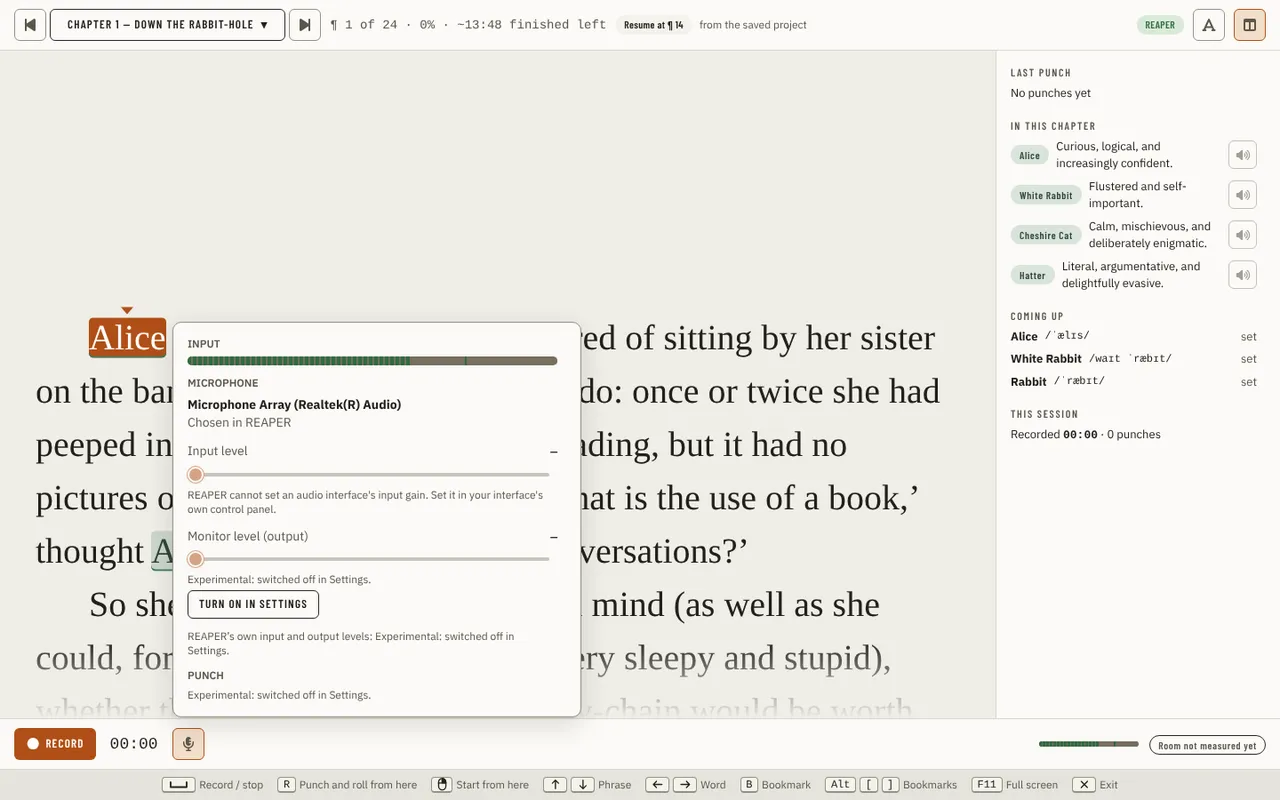
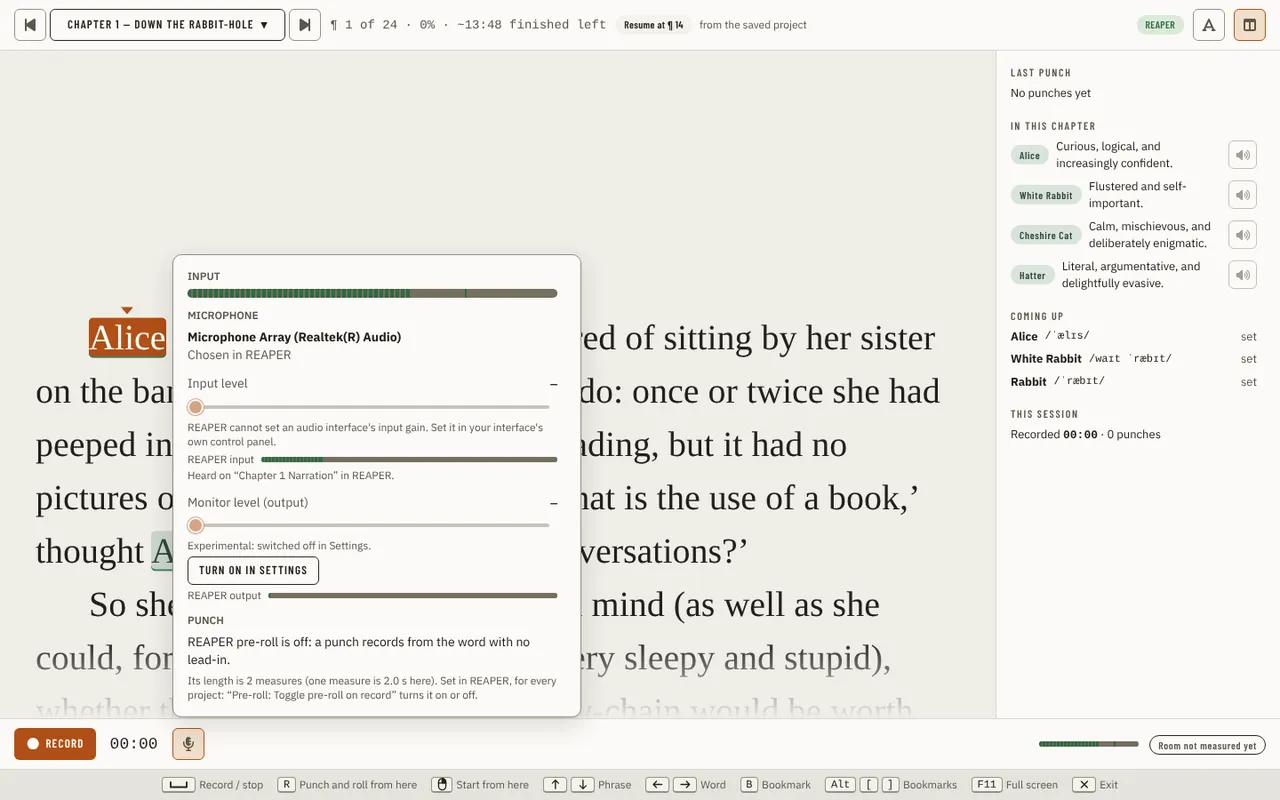
feat(booth): the Levels menu shows REAPER's meters and pre-roll by default (#2317)

Changed region(s): [[0.125, 0.3438, 0.4375, 0.875]]

diff --git a/src/studio/ui/src/components/booth/frame/dawMeters.test.tsx b/src/studio/ui/src/components/booth/frame/dawMeters.test.tsx
@@ -17,9 +17,12 @@ afterEach(() => {
 });
 
 // The DAW's own meters under the Levels menu's sliders (#2251 item 11): the record-armed track's input under Input level, the output under
-// Monitor level, read while the menu is open. And the way to turn on what Experimental keeps off.
+// Monitor level, read while the menu is open. The meters only read, so they are Supported and on by default (the owner's decision on #2251);
+// only the monitor slider, which writes, keeps a way to turn Experimental on.
 
 const ON: DawCapabilitySupport = { level: 'experimental', available: true };
+const METERS_ON: DawCapabilitySupport = { level: 'supported', available: true };
+const METERS_TURNED_OFF: DawCapabilitySupport = { level: 'supported', available: false, reason: 'turned_off', message: 'Turned off in Settings.' };
 const EXPERIMENTAL_OFF: DawCapabilitySupport = {
   level: 'experimental',
   available: false,
@@ -30,7 +33,7 @@ const ARMED: DawMeters = { ok: true, output: -18, input: -24, inputTrack: 'Chapt
 
 function menu(
   answers: () => DawMeters | Promise<DawMeters>,
-  { meters = ON, monitor = ON, reachable = true }: { meters?: DawCapabilitySupport; monitor?: DawCapabilitySupport; reachable?: boolean } = {},
+  { meters = METERS_ON, monitor = ON, reachable = true }: { meters?: DawCapabilitySupport; monitor?: DawCapabilitySupport; reachable?: boolean } = {},
   setup: keyof typeof DAW_SETUPS = 'reaper',
 ) {
   const reads: number[] = [];
@@ -137,21 +140,30 @@ describe("the DAW's meters in the Levels menu", () => {
     expect(await within(popup()).findByText('This REAPER version cannot read its meters.')).toBeTruthy();
   });
 
-  it('with the meters off, says why once and reads nothing', async () => {
-    const { open, reads } = menu(() => ARMED, { meters: EXPERIMENTAL_OFF, monitor: EXPERIMENTAL_OFF });
+  it('with the meters turned off, says why once and reads nothing', async () => {
+    const { open, reads } = menu(() => ARMED, { meters: METERS_TURNED_OFF });
     await open();
-    expect(within(popup()).getByText('REAPER’s own input and output levels: Experimental: switched off in Settings.')).toBeTruthy();
+    expect(within(popup()).getByText('REAPER’s own input and output levels: Turned off in Settings.')).toBeTruthy();
     expect(within(popup()).queryByRole('meter', { name: 'REAPER input level' })).toBeNull();
     expect(reads).toEqual([]);
   });
 
-  it('offers one way to turn Experimental on when that is all that keeps the monitor level and the meters off', async () => {
-    const { open, onOpenSettings } = menu(() => ARMED, { meters: EXPERIMENTAL_OFF, monitor: EXPERIMENTAL_OFF });
+  it("shows the meters with Experimental off: the one Turn on in Settings is the monitor slider's", async () => {
+    const { open, onOpenSettings } = menu(() => ARMED, { monitor: EXPERIMENTAL_OFF });
     await open();
+    expect(await within(popup()).findByText('Heard on “Chapter 1 Narration” in REAPER.')).toBeTruthy();
+    expect(meter('REAPER output level')).toBeTruthy();
     const buttons = within(popup()).getAllByRole('button', { name: 'Turn on in Settings' });
     expect(buttons).toHaveLength(1);
     await userEvent.click(buttons[0]);
     expect(onOpenSettings).toHaveBeenCalledTimes(1);
+  });
+
+  it('never offers a switch for the meters, even from a host that still says Experimental keeps them off', async () => {
+    const { open } = menu(() => ARMED, { meters: EXPERIMENTAL_OFF });
+    await open();
+    expect(within(popup()).getByText('REAPER’s own input and output levels: Experimental: switched off in Settings.')).toBeTruthy();
+    expect(within(popup()).queryByRole('button', { name: 'Turn on in Settings' })).toBeNull();
   });
 
   it('offers no way to turn Experimental on while the DAW is not answering: turning it on would not help', async () => {

diff --git a/src/studio/ui/src/api/wireContracts.test.ts b/src/studio/ui/src/api/wireContracts.test.ts
@@ -3516,14 +3516,15 @@ describe('answers of the mock client for the settings, voice, model, transcript 
     expect(dawPunchPrerollSchema.safeParse({ ok: true, onRecord: false, measures: 2, measureSeconds: 0, message: '' }).success).toBe(false);
     expect(dawPunchPrerollSchema.safeParse({ ok: true, onRecord: false, measures: -1, measureSeconds: 2, message: '' }).success).toBe(false);
 
-    const api = createMockApi({}, { daw: { toggles: { punch_preroll: 'on' } } });
+    // Supported (the owner's decision on #2251): read with the narrator's settings untouched.
+    const api = createMockApi();
     const held = await api.dawPunchPreroll();
     expectMatches(dawPunchPrerollSchema, held, 'mock punch pre-roll');
     expect(held).toEqual({ ok: true, onRecord: false, measures: 2, measureSeconds: 2, message: '' });
 
-    const off = createMockApi();
+    const off = createMockApi({}, { daw: { toggles: { punch_preroll: 'off' } } });
     const refused = await off.dawPunchPreroll();
-    expectMatches(dawPunchPrerollSchema, refused, 'mock punch pre-roll, experimental off');
+    expectMatches(dawPunchPrerollSchema, refused, 'mock punch pre-roll, turned off');
     expect(refused.message).toBe((await off.dawCapabilities()).capabilities.punch_preroll.message);
   });
 
@@ -3562,18 +3563,19 @@ describe('answers of the mock client for the settings, voice, model, transcript 
     expect(dawMetersSchema.safeParse({ ok: false, output: 0, input: null, inputTrack: '', message: '', reason: '' }).success).toBe(false);
     expect(dawMetersSchema.safeParse({ ok: false, output: 0, input: -6, inputTrack: '', message: 'x', reason: '' }).success).toBe(false);
 
-    const armed = await createMockApi({}, { daw: { toggles: { daw_meters: 'on' } } }).dawMeters();
+    // Supported (the owner's decision on #2251): read with the narrator's settings untouched.
+    const armed = await createMockApi().dawMeters();
     expectMatches(dawMetersSchema, armed, 'mock meters, armed');
     expect(armed).toMatchObject({ ok: true, input: -48, output: -100 });
-    const unarmed = await createMockApi({}, { daw: { toggles: { daw_meters: 'on' }, meters: 'unarmed' } }).dawMeters();
+    const unarmed = await createMockApi({}, { daw: { meters: 'unarmed' } }).dawMeters();
     expectMatches(dawMetersSchema, unarmed, 'mock meters, no armed track');
     expect(unarmed).toMatchObject({ ok: true, input: null, inputTrack: '' });
 
-    const off = createMockApi();
+    const off = createMockApi({}, { daw: { toggles: { daw_meters: 'off' } } });
     const refused = await off.dawMeters();
-    expectMatches(dawMetersSchema, refused, 'mock meters, experimental off');
+    expectMatches(dawMetersSchema, refused, 'mock meters, turned off');
     const support = (await off.dawCapabilities()).capabilities.daw_meters;
-    expect(refused).toEqual({ ok: false, output: 0, input: null, inputTrack: '', message: support.message, reason: 'experimental_off' });
+    expect(refused).toEqual({ ok: false, output: 0, input: null, inputTrack: '', message: support.message, reason: 'turned_off' });
   });
 
   it('dawPlace and dawGoToChapter answer where the narrator is and a move: the host goldens parse, and the mock answers as the host does', async () => {

diff --git a/src/studio/ui/tests/visual/drivers/booth.ts b/src/studio/ui/tests/visual/drivers/booth.ts
@@ -321,16 +321,19 @@ export const boothDrivers: Record<string, Driver> = {
     await menu.getByText('Chosen in REAPER').waitFor();
     // The microphone the DAW records from is named (the mock's first listed microphone), not left blank.
     await menu.getByText('Microphone Array (Realtek(R) Audio)').waitFor();
+    // REAPER's meters only read, so they show by default with no Experimental switch (the owner's decision on #2251).
+    await menu.getByText('Heard on “Chapter 1 Narration” in REAPER.').waitFor();
   },
-  // Experimental DAW actions on: the Punch part is REAPER's own pre-roll, read from REAPER and shown in measures (#2251 item 11).
-  // With no track armed in REAPER, so the meters say so (#2251 item 11) and this state differs from levels-menu-daw-meters.
+  // The Punch part is REAPER's own pre-roll, read from REAPER and shown in measures with no switch (#2251 item 11).
+  // With no track armed in REAPER, so the meters say so (#2251 item 11) and this state differs from levels-menu.
   'levels-menu-preroll': async (page) => {
-    await readyToRecord(page, `${RECORD_ON}&mockDawExperimentalOn=1&mockDawMeters=unarmed`);
+    await readyToRecord(page, `${RECORD_ON}&mockDawMeters=unarmed`);
     await page.getByRole('button', { name: 'Levels' }).click();
     const menu = page.getByRole('dialog', { name: 'Levels' });
     await menu.getByText('REAPER pre-roll is off: a punch records from the word with no lead-in.').waitFor();
     await menu.getByText('No track is armed in REAPER: its input level shows once one is.').waitFor();
   },
+  // Experimental DAW actions on, so the monitor slider is usable and this state differs from levels-menu.
   'levels-menu-daw-meters': async (page) => {
     await readyToRecord(page, `${RECORD_ON}&mockDawExperimentalOn=1`);
     await page.getByRole('button', { name: 'Levels' }).click();

diff --git a/src/studio/ui/tests/visual/catalog/booth.ts b/src/studio/ui/tests/visual/catalog/booth.ts
@@ -209,21 +209,21 @@ export const boothStates: StateEntry[] = [
     page: 'booth',
     state: 'levels-menu',
     description:
-      'Booth, the footer\'s Levels menu open: the input level and the microphone the DAW records from, named, with "Chosen in REAPER" (TeleprompterReaperInput)',
+      "Booth, the footer's Levels menu open with the narrator's settings untouched: the input level and the microphone the DAW records from, named, with \"Chosen in REAPER\" (TeleprompterReaperInput); REAPER's own meters and pre-roll show with no switch (they only read), and the monitor slider, which writes, is off with Turn on in Settings",
     ...REFLOW,
   },
   {
     page: 'booth',
     state: 'levels-menu-preroll',
     description:
-      "Booth, the Levels menu open with Experimental DAW actions on: the Punch part is REAPER's own pre-roll, read only: off on record, 2 measures, one measure in seconds at the cursor, and where it is set in REAPER; with no track armed in REAPER, so the input meter says so instead of a level",
+      "Booth, the Levels menu open (no Experimental switch needed): the Punch part is REAPER's own pre-roll, read only: off on record, 2 measures, one measure in seconds at the cursor, and where it is set in REAPER; with no track armed in REAPER, so the input meter says so instead of a level",
     ...REFLOW,
   },
   {
     page: 'booth',
     state: 'levels-menu-daw-meters',
     description:
-      "Booth, the Levels menu with Experimental DAW actions on: REAPER's own meters under the two sliders, the armed track's input (named) and the output, with the monitor slider usable (DawMeters)",
+      "Booth, the Levels menu with Experimental DAW actions on, so the monitor slider is usable too: REAPER's own meters under the two sliders, the armed track's input (named) and the output (DawMeters)",
     ...REFLOW,
   },
   {

diff --git a/src/studio/ui/src/components/booth/frame/LevelsMenu.tsx b/src/studio/ui/src/components/booth/frame/LevelsMenu.tsx
@@ -35,7 +35,8 @@ export type LevelsMenuProps = {
   /**
    * What the DAW says about setting the levels (its `monitor_level` and `input_level` capabilities): the two sliders the mock's menu has, and
    * about reading its own meters (`daw_meters`), shown under them. Absent until the capabilities are read, and then there are no sliders to
-   * show. `onOpenSettings` leads to the Experimental switch when that is all that keeps one off.
+   * show. `onOpenSettings` leads to the Experimental switch when that is all that keeps the monitor slider off; the meters and the pre-roll
+   * only read, so they need no switch.
    */
   levels?: {
     monitor: DawCapabilitySupport | undefined;
@@ -246,12 +247,9 @@ function LevelSliders({ levels, dawName, reachable }: { levels: NonNullable<Leve
         {outputMeter ? <DawMeter caption={`${dawName} output`} label={`${dawName} output level`} db={outputMeter.db} why={outputMeter.why} /> : null}
       </div>
       {meters && !meters.available ? (
-        <div className="flex flex-col gap-1">
-          <span className="text-xs [overflow-wrap:anywhere] text-[var(--text-muted)]">
-            {dawName}&rsquo;s own input and output levels: {meters.message}
-          </span>
-          {monitor?.reason === 'experimental_off' ? null : <TurnOn support={meters} onOpenSettings={onOpenSettings} />}
-        </div>
+        <span className="text-xs [overflow-wrap:anywhere] text-[var(--text-muted)]">
+          {dawName}&rsquo;s own input and output levels: {meters.message}
+        </span>
       ) : null}
     </div>
   );

diff --git a/src/studio/ui/src/components/booth/frame/punchPreroll.test.tsx b/src/studio/ui/src/components/booth/frame/punchPreroll.test.tsx
@@ -91,7 +91,7 @@ describe('the Levels menu punch pre-roll', () => {
 });
 
 describe("the Levels menu punch pre-roll is REAPER's own when REAPER has one", () => {
-  const on: DawCapabilitySupport = { level: 'experimental', available: true };
+  const on: DawCapabilitySupport = { level: 'supported', available: true };
 
   it("shows REAPER's pre-roll, off, with its length, where to set it, and never the app's seconds", async () => {
     const { save, open } = menu('daw', {}, on);
@@ -122,11 +122,11 @@ describe("the Levels menu punch pre-roll is REAPER's own when REAPER has one", (
     expect(await screen.findByText('REAPER pre-roll: 2 measures (one measure is 2.0 s here)')).toBeTruthy();
   });
 
-  it("says REAPER's own sentence when REAPER has a pre-roll the app may not read yet", async () => {
-    const off: DawCapabilitySupport = { level: 'experimental', available: false, reason: 'experimental_off', message: 'Experimental DAW actions are off.' };
+  it("says the capability's own sentence when REAPER has a pre-roll the app may not read now", async () => {
+    const off: DawCapabilitySupport = { level: 'supported', available: false, reason: 'turned_off', message: 'Turned off in Settings.' };
     const { open } = menu('daw', {}, off);
     await open();
-    expect(await screen.findByText('Experimental DAW actions are off.')).toBeTruthy();
+    expect(await screen.findByText('Turned off in Settings.')).toBeTruthy();
     expect(screen.queryByRole('textbox', { name: 'Punch pre-roll (seconds)' })).toBeNull();
   });
 

diff --git a/src/studio/ui/src/components/booth/page/BoothNextPage.test.tsx b/src/studio/ui/src/components/booth/page/BoothNextPage.test.tsx
@@ -1139,7 +1139,7 @@ describe('the Levels menu', () => {
     const off = { level: 'experimental' as const, available: false, reason: 'experimental_off' as const, message: 'Experimental: switched off in Settings.' };
     const setup = DAW_SETUPS.reaper;
     const daw = createMockDawClient(
-      { ...setup, capabilities: { ...setup.capabilities, monitor_level: off, daw_meters: off } },
+      { ...setup, capabilities: { ...setup.capabilities, monitor_level: off } },
       { chapterIds: ['c1', 'c2', 'credits-opening'], candidateIds: [], findingIds: [] },
     );
     const page = renderPage({ daw });

diff --git a/src/studio/ui/src/api/dawMock.ts b/src/studio/ui/src/api/dawMock.ts
@@ -70,8 +70,8 @@ const REAPER_DECLARATION: Record<DawCapabilityKey, DawCapabilityLevel> = {
   monitor_level: 'experimental',
   // No DAW the app talks to can set an audio interface's input gain.
   input_level: 'unsupported',
-  punch_preroll: 'experimental',
-  daw_meters: 'experimental',
+  punch_preroll: 'supported',
+  daw_meters: 'supported',
 };
 
 const CAPABILITY_NEEDS: Record<DawCapabilityKey, DawMockNeeds> = {

diff --git a/src/studio/ui/src/fixtures/daw.ts b/src/studio/ui/src/fixtures/daw.ts
@@ -72,8 +72,8 @@ const REAPER_LEVELS: Record<DawCapabilityKey, DawCapabilitySupport['level']> = {
   undo_last: 'experimental',
   monitor_level: 'experimental',
   input_level: 'unsupported',
-  punch_preroll: 'experimental',
-  daw_meters: 'experimental',
+  punch_preroll: 'supported',
+  daw_meters: 'supported',
 };
 
 type Rows = Partial<Record<DawCapabilityKey, DawCapabilitySupport>>;

diff --git a/scripts/ci/real-reaper/scenarios_transport.py b/scripts/ci/real-reaper/scenarios_transport.py
@@ -1,4 +1,4 @@
-"""Real-REAPER scenarios, group 4: the transport, recording, roll, punch and the monitor level, on the JACK dummy audio device.
+"""Real-REAPER scenarios, group 4: the transport, recording, roll, punch, the monitor level and the meters, on the JACK dummy audio device.
 
 REAPER plays and records for real here (the device is a sound server with no hardware, so what is recorded is silence): a scenario arms a
 track, sends the product's own command and asserts on REAPER's play state, the items a recording leaves and the arms, not on a sound.
@@ -8,6 +8,8 @@ docs/operations/reaper-verification-pass.md, "Real-REAPER CI run (Linux)".
 
 from __future__ import annotations
 
+import shutil
+import subprocess
 import time
 
 from scenario import Env, items_on, near, scenario
@@ -518,3 +520,60 @@ def monitor_level(env: Env) -> str:
         env.refused("monitor_level", bad)
     assert int(env.ok("monitor_level", "", until="MONITOR_LEVEL")[2]) == 85, "a refused level changed the send"
     return f"a fresh master has {outputs} hardware output reading 70 (unity); 100 = +6 dB, 35 = -30 dB, 0 = silence, 85 = +3 dB; the fader and mute untouched; no undo point (change count {note}); no output and 4 bad levels refused"
+
+
+def meters_when(env: Env, holds, *, timeout: float, what: str) -> list[str]:
+    """Reads daw_meters until its METERS fields satisfy `holds`; answers them."""
+
+    def read():
+        meters = env.ok("daw_meters", until="METERS")
+        return meters if holds(meters) else None
+
+    return env.wait_for(read, timeout=timeout, what=what)
+
+
+def jack_patch(connect: bool) -> None:
+    """Patches REAPER's first JACK output into its first input (or takes the patch away): the dummy device's only way to give an armed track a signal."""
+    tool = shutil.which("jack_connect" if connect else "jack_disconnect")
+    assert tool, "jack_connect is not installed (jackd2 brings it)"
+    subprocess.run([tool, "REAPER:out1", "REAPER:in1"], check=connect, capture_output=True, timeout=10)
+
+
+@scenario(
+    "daw_meters",
+    "daw_meters",
+    "meters: the master's level while REAPER plays and the first armed track's input with its name; silence as -100; arms, sets and undoes nothing",
+    needs_audio=True,
+)
+def daw_meters(env: Env) -> str:
+    book(env)
+    # Chapter 2 is the track the narrator would record on: input 1, record monitoring off, so its input never reaches the master.
+    env.lua(
+        "local t = ci.track_by_name('Chapter 2') reaper.SetMediaTrackInfo_Value(t, 'I_RECINPUT', 0) reaper.SetMediaTrackInfo_Value(t, 'I_RECMON', 0) return true"
+    )
+    still = env.ok("daw_meters", until="METERS")
+    assert still[2:5] == ["-100.0", "", ""], f"stopped with nothing armed REAPER read {still[2:]}"
+    arm_by_hand(env, "Chapter 2")
+    before = env.snapshot()
+    quiet = meters_when(env, lambda m: m[4] == "Chapter 2", timeout=5, what="the armed track to be named")
+    assert float(quiet[3]) < -60, f"an armed track with no signal read {quiet[3]} dB"
+    # Chapter 1's earlier read (tone_a, amplitude 0.3: -10.5 dBFS) plays; REAPER's output is patched into its input, so the armed track hears it too.
+    jack_patch(True)
+    try:
+        env.lua("reaper.SetEditCurPos(0, false, false) reaper.OnPlayButton() return true")
+        env.wait_for(lambda: play_state(env) & 1 == 1, what="REAPER to play")
+        heard = meters_when(env, lambda m: float(m[2]) > -30 and m[3] != "" and float(m[3]) > -30, timeout=4, what="both meters to read the tone")
+        stop_by_hand(env)
+        env.wait_for(lambda: play_state(env) == 0, what="REAPER to stop")
+    finally:
+        jack_patch(False)
+    assert heard[4] == "Chapter 2", f"the input was named {heard[4]!r}"
+    near(float(heard[2]), -10.5, 6.0, "the master's level while the -10.5 dBFS tone plays (pan law aside)")
+    fallen = meters_when(env, lambda m: float(m[2]) < -60, timeout=3, what="the output meter to fall after the stop")
+    after = env.snapshot()
+    assert arms(env) == {"Chapter 1": False, "Chapter 2": True, "Pickups": False}, f"the arms changed: {arms(env)}"
+    assert after["undo"] == before["undo"], f"daw_meters opened an undo point: {after['undo']!r}"
+    return (
+        f"stopped and unarmed: -100.0 and no input; armed with no signal: {quiet[3]} dB on Chapter 2; playing: output {heard[2]} dB, "
+        f"input {heard[3]} dB on Chapter 2; {fallen[2]} dB after the stop; arms and undo unchanged"
+    )

diff --git a/src/studio/desktop/bindings_daw_preroll_test.go b/src/studio/desktop/bindings_daw_preroll_test.go
@@ -70,7 +70,6 @@ func TestDawPunchPrerollRefusesWithTheResolversSentenceAndAsksNothing(t *testing
 	}{
 		"standalone":        {"", liveReachability(), "on", dawport.ReasonStandalone},
 		"not answering":     {"REAPER", daw.NewReachability(nil), "on", dawport.ReasonNotRunning},
-		"experimental off":  {"REAPER", liveReachability(), "", dawport.ReasonExperimentalOff},
 		"toggle turned off": {"REAPER", liveReachability(), "off", dawport.ReasonTurnedOff},
 	} {
 		t.Run(name, func(t *testing.T) {
@@ -96,6 +95,20 @@ func TestDawPunchPrerollRefusesWithTheResolversSentenceAndAsksNothing(t *testing
 				t.Fatalf("the role was asked %d times", role.reads)
 			}
 		})
+	}
+}
+
+// With the narrator's settings untouched and REAPER answering, REAPER's pre-roll reads: punch_preroll is Supported (the owner's
+// decision on #2251), so no Experimental switch stands in front of it.
+func TestDawPunchPrerollReadsByDefault(t *testing.T) {
+	role := &fakePrerollReader{held: dawport.PunchPreroll{OnRecord: true, Measures: 2, MeasureSeconds: 2}}
+	host := deleteRangeHost(t, "REAPER", liveReachability(), nil, "")
+	host.mu.Lock()
+	host.prerollReader = role
+	host.mu.Unlock()
+	got := bindingAnswer[PunchPrerollResult](t)(host.DawPunchPreroll())
+	if !got.OK || !got.OnRecord || got.Measures != 2 || got.MeasureSeconds != 2 || role.reads != 1 {
+		t.Fatalf("DawPunchPreroll on default settings = %+v after %d reads; want the pre-roll, read once", got, role.reads)
 	}
 }
 

diff --git a/src/studio/desktop/bindings_daw_meters_test.go b/src/studio/desktop/bindings_daw_meters_test.go
@@ -73,7 +73,6 @@ func TestDawMetersRefusesWithTheResolversSentenceAndAsksNothing(t *testing.T) {
 	}{
 		"standalone":        {"", liveReachability(), "on", dawport.ReasonStandalone},
 		"not answering":     {"REAPER", daw.NewReachability(nil), "on", dawport.ReasonNotRunning},
-		"experimental off":  {"REAPER", liveReachability(), "", dawport.ReasonExperimentalOff},
 		"toggle turned off": {"REAPER", liveReachability(), "off", dawport.ReasonTurnedOff},
 	} {
 		t.Run(name, func(t *testing.T) {
@@ -100,6 +99,20 @@ func TestDawMetersRefusesWithTheResolversSentenceAndAsksNothing(t *testing.T) {
 				t.Fatalf("the role was asked %d times", role.reads)
 			}
 		})
+	}
+}
+
+// With the narrator's settings untouched and REAPER answering, the meters read: daw_meters is Supported (the owner's decision on
+// #2251), so no Experimental switch stands in front of it.
+func TestDawMetersReadsByDefault(t *testing.T) {
+	role := &fakeMeterReader{meters: dawport.DawMeters{OutputDB: -20, Armed: true, InputDB: -6, InputTrack: "Chapter 1"}}
+	host := deleteRangeHost(t, "REAPER", liveReachability(), nil, "")
+	host.mu.Lock()
+	host.meterReader = role
+	host.mu.Unlock()
+	got := bindingAnswer[DawMetersResult](t)(host.DawMeters())
+	if !got.OK || got.Output != -20 || got.Input == nil || *got.Input != -6 || role.reads != 1 {
+		t.Fatalf("DawMeters on default settings = %+v after %d reads; want the meters, read once", got, role.reads)
 	}
 }
 
